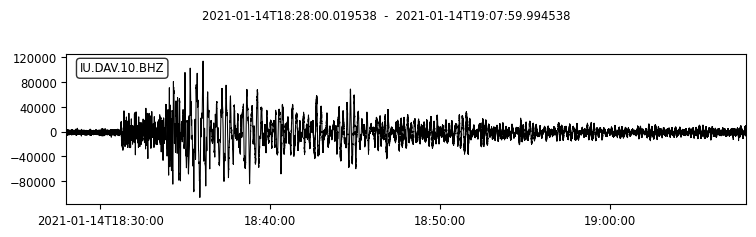
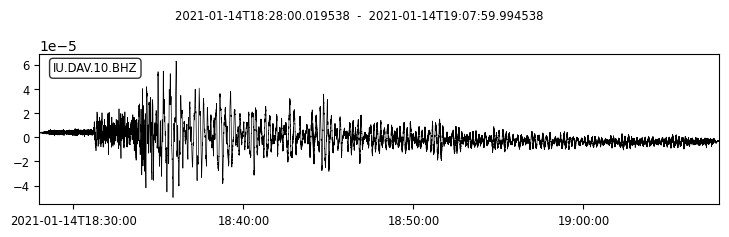
remove instrument response and calculate ground velocity

diff --git a/seismic_IRIS.py b/seismic_IRIS.py
@@ -6,15 +6,14 @@ from obspy import UTCDateTime
 
 t = UTCDateTime('2021-01-14T18:28:00')
 [sbef, saft] = [0,2400]
-st = client.get_waveforms('IU','DAV','10','BHZ', t-sbef, t+saft, attach_response = True)
-#st = st.select(component='Z')
-st.plot(linewidth=0.75, equal_scale = False)
+st0 = client.get_waveforms('IU','DAV','10','BHZ', t-sbef, t+saft, attach_response = True)
+st0.remove_response(output='VEL')
+st0.plot(linewidth=0.5, equal_scale = False)
 
+st1 = client.get_waveforms('IU','MBWA','10','BHZ', t-sbef, t+saft, attach_response = True)
+st1.remove_response(output='VEL')
+st1.plot(linewidth=0.5, equal_scale = False)
 
-st = client.get_waveforms('IU','MBWA','10','BHZ', t-sbef, t+saft, attach_response = True)
-#st = st.select(component='Z')
-st.plot(linewidth=0.75, equal_scale = False)
-
-st = client.get_waveforms('IU','PMG','10','BHZ', t-sbef, t+saft, attach_response = True)
-#st = st.select(component='Z')
-st.plot(linewidth=0.75, equal_scale = False)
+st2 = client.get_waveforms('IU','PMG','10','BHZ', t-sbef, t+saft, attach_response = True)
+st2.remove_response(output='VEL')
+st2.plot(linewidth=0.5, equal_scale = False)
